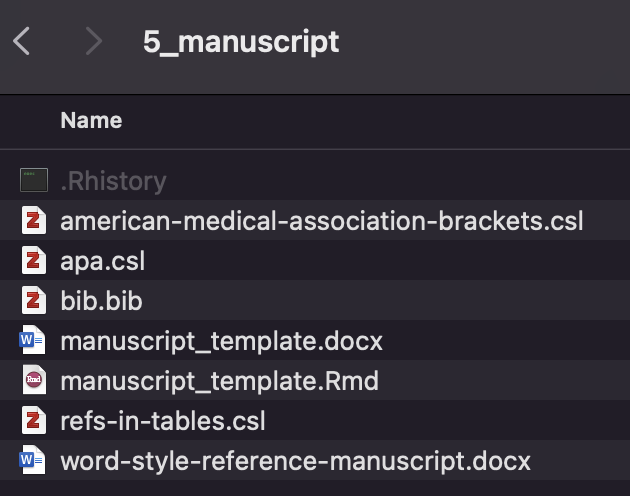
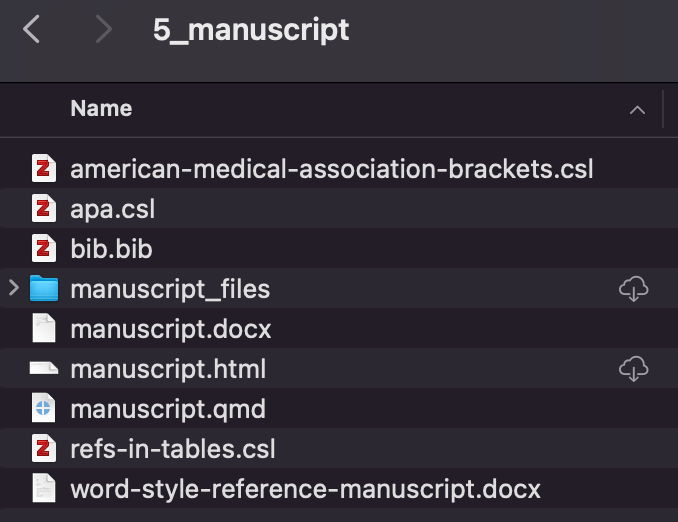
updated modeling workflow slides and syllabus

diff --git a/sessions/11-modeling_workflow/modeling_workflow.html b/sessions/11-modeling_workflow/modeling_workflow.html
@@ -404,6 +404,10 @@ Alton Russell
 
   <p class="date">2023-10-05</p>
 </section>
+<section id="non-programing-assignments" class="slide level2">
+<h2>Non-programing assignments</h2>
+<p>See <a href="https://htmlpreview.github.io/?https://github.com/altonrus/epib-676/blob/main/syllabus/info_assignments_nonprogramming.html">Info for non-programming assignments</a> in syllabus folder of Github.</p>
+</section>
 <section id="today" class="slide level2">
 <h2>Today</h2>
 <ul>
@@ -451,9 +455,12 @@ Alton Russell
 </section>
 <section id="paradigm-shift" class="slide level2">
 <h2>Paradigm shift</h2>
-<p>Manuscript is an advertisement. Product is what you publish with it.</p>
-<p><br></p>
-<p>Product is code, data, Shiny tool, etc.</p>
+<p>Manuscript is an advertisement. The product is the associated work</p>
+<ul>
+<li><p>Code</p></li>
+<li><p>Data</p></li>
+<li><p>Shiny app, etc.</p></li>
+</ul>
 <blockquote>
 <p>An article about computational result is advertising, not scholarship. The <strong>actual scholarship is the full software environment, code and data, that produced the result.</strong></p>
 </blockquote>
@@ -507,22 +514,22 @@ Alton Russell
 </section>
 <section id="cant-share-data-due-to-privacy" class="slide level2">
 <h2>Can’t share data due to privacy?</h2>
-<p>Code is very useful even without data</p>
+<p>Code is useful, even without data</p>
 <ul>
-<li><p>Helps communicate your methods</p></li>
-<li><p>Others can adapt + run on their own data</p></li>
+<li><p>Precisely communicates methods</p></li>
+<li><p>Others can adapt, borrow + run on their own data</p></li>
 </ul>
 <p>Increase reproducibility without sharing data with</p>
 <ul>
 <li><p>‘Data dictionary’ in supplement</p></li>
-<li><p>Synthetic data</p></li>
+<li><p>Synthetic data(?)</p></li>
 </ul>
 </section>
 <section id="environment" class="slide level2">
 <h2>Environment</h2>
 <ul>
 <li><p>R and packages updated all the time</p></li>
-<li><p>No guarantees of backwards compatibility</p></li>
+<li><p>No guarantee of backwards compatibility</p></li>
 <li><p>Potential solutions</p>
 <ul>
 <li><p><a href="https://rstudio.github.io/renv/">renv package</a> for <strong>r</strong>eproducible <strong>env</strong>ironments</p></li>
@@ -544,8 +551,10 @@ Alton Russell
 </section>
 <section id="each-script-should-run-error-free-in-new-session" class="slide level2">
 <h2>Each script should run error-free in new session</h2>
-<p>Use console when designing code, but ‘restart r and clear output’ before final check.</p>
-<p>Change global options to maximize reproducibility</p>
+<ul>
+<li><p>Use console when writing, but ‘restart r and clear output’ before final run</p></li>
+<li><p>Set global options to maximize reproducibility</p></li>
+</ul>
 
 <img data-src="figs/rstudio-global-options.jpeg" class="r-stretch"></section>
 <section id="literate-programming" class="slide level2">
@@ -596,7 +605,7 @@ Alton Russell
 </div>
 </section>
 <section id="data-folder-best-practices" class="slide level2">
-<h2>Data folder best practices</h2>
+<h2>1_data folder best practices</h2>
 <ul>
 <li><p>Also put data documentation (dictionary, meta-data) here</p>
 <ul>
@@ -610,8 +619,8 @@ Alton Russell
 <li><p>Line-level data in csv, json or <a href="https://arrow.apache.org/docs/index.html">feather or parquet</a></p></li>
 </ul>
 </section>
-<section id="intermediate-and-output-folders" class="slide level2">
-<h2>Intermediate and Output folders</h2>
+<section id="intermediate-and-4_output-folders" class="slide level2">
+<h2>3_intermediate and 4_output folders</h2>
 <ul>
 <li><p>Tables/objects generated in your scripts should go to intermediate or output folder (<strong>not data</strong>!)</p></li>
 <li><p>Use intermediate folder for non-final objects (that are later read into another script)</p>
@@ -641,7 +650,7 @@ Alton Russell
 </div>
 </section>
 <section id="scripts-folder-best-practices" class="slide level2">
-<h2>Scripts folder best practices</h2>
+<h2>2_scripts folder best practices</h2>
 <div class="columns">
 <div class="column" style="width:60%;">
 <ul>
@@ -662,24 +671,23 @@ Alton Russell
 <h2>Functionalize code</h2>
 <p>Often develops over time:</p>
 <ul>
-<li><p>At first, write code directly in scripts</p></li>
+<li><p>At first, write code directly in script (no function)</p></li>
 <li><p>Then, break key parts into functions</p></li>
 <li><p>As number of functions grow, move into <code>00-hepler-functions</code> script and <code>source()</code> into analysis scripts</p></li>
 </ul>
-<p>Many smaller functions calling each other &gt; 1 massive function</p>
+<p>Smaller functions calling each other easier to understand &amp; debug vs.&nbsp;1 massive function</p>
 </section>
-<section id="use-headings-in-code" class="slide level2">
-<h2>Use headings in code</h2>
+<section id="headings-in-.r-scripts" class="slide level2">
+<h2>Headings in .R scripts</h2>
 <ul>
 <li><p><code># Text -----</code> will create a section for your outline</p>
 <ul>
 <li>Again, verb-based sections good</li>
 </ul></li>
-<li><p>Neat hack: <code>#| Text ----</code> can create ‘subsections’</p></li>
-<li><p>Figures also show up in outline</p></li>
+<li><p>Neat hack: <code>#| - Text ----</code> can create ‘subsections’</p></li>
 </ul>
 
-<img data-src="rscript_examples.jpg" class="r-stretch"></section>
+<img data-src="headings_outline_example.png" class="r-stretch"></section>
 <section id="github-in-rstudio" class="slide level2">
 <h2><strong>Git</strong>hub in RStudio</h2>
 <div class="columns">
@@ -700,27 +708,41 @@ Alton Russell
 <div class="column" style="width:30%;">
 <p><img data-src="figs/gitignore-example.png"></p>
 </div><div class="column" style="width:70%;">
-<p>Any folder or file you don’t want on github</p>
+<p>List all folders/files you don’t want on github</p>
 <ul>
-<li><p>“local” folder (data use agreements, conference presentations, etc.)</p></li>
-<li><p>“private” folders for objects that cannot be made public</p></li>
+<li><p>“local” folder (data use agreements, conference presentations, meeting minutes, etc.)</p></li>
+<li><p>“private” sub-folders for objects that cannot be made public</p></li>
 </ul>
-<p>I keep Github repos private at first, but they become public when I publish.</p>
+<p>Github repos private (with collaborators) while developing project, but they become public when I publish.</p>
 </div>
 </div>
 </section>
 <section id="more-on-private-folders" class="slide level2">
 <h2>More on private folders</h2>
 <ul>
-<li><p>Use when data use agreement / ethics prevents sharing data</p></li>
-<li><p>Warning: objects other than data tables can include data (e.g., saving a ‘random forest object’ from ranger)</p></li>
+<li><p>Use when data use agreement and/or ethics prevents sharing data</p></li>
 <li><p>Should never push private data to github, even if private</p></li>
-<li><p><strong>If sensitive data were ever in repo, hard to remove! (just nuke and re-create before making public)</strong></p></li>
+</ul>
+<div class="callout callout-warning callout-titled callout-style-default">
+<div class="callout-body">
+<div class="callout-title">
+<div class="callout-icon-container">
+<i class="callout-icon"></i>
+</div>
+<p><strong>Warning</strong></p>
+</div>
+<div class="callout-content">
+<p>Objects other than data tables can include data (e.g., saving an ML model ‘object’ often has the data embedded!)</p>
+</div>
+</div>
+</div>
+<ul>
+<li><strong>If sensitive data were ever in repo, hard to remove! (just nuke and re-create before making public)</strong></li>
 </ul>
 </section>
 <section id="merge-conflict" class="slide level2">
 <h2>Merge conflict</h2>
-<p>Caused when:</p>
+<p>Can happen if:</p>
 <ul>
 <li><p>Two users edit same line of file</p></li>
 <li><p>Someone edits and another person deletes</p></li>
@@ -742,7 +764,7 @@ ask your question in IRC.
 <p><strong>Note</strong></p>
 </div>
 <div class="callout-content">
-<p>This is why if you edit the assignments you may be unable to pull the class repo. Solution: Copy anything you want to edit into another location so you can always pull.</p>
+<p>This is why if you edit the assignments you may be unable to pull the class repo. Can copy anything you want to edit into another location so you can always pull.</p>
 </div>
 </div>
 </div>
@@ -781,13 +803,13 @@ ask your question in IRC.
 <p><strong>But:</strong></p>
 <ul>
 <li><p>If you change parameter and rerun scrips, all results will update</p></li>
-<li><p>Reduces risk of transcription error (still risk of coding error)</p></li>
+<li><p>Reduces risk of transcription error (but may introduce new risk of coding error)</p></li>
 </ul>
 </section>
 <section id="my-manuscript-template" class="slide level2">
 <h2>My Manuscript template</h2>
 <ul>
-<li><p>.Rmd that knits to Microsoft Word</p>
+<li><p>.Qmd that knits to Microsoft Word</p>
 <ul>
 <li>Collaborators can track changes</li>
 <li>Some medical journals still prefer Word</li>
@@ -799,19 +821,15 @@ ask your question in IRC.
 <li><p>Use <a href="https://davidgohel.github.io/flextable/reference/index.html">flextable package</a> to make pretty tables</p></li>
 </ul>
 </section>
-<section id="manuscript-template-.rmd" class="slide level2">
-<h2>Manuscript template .Rmd</h2>
-<div class="columns">
-<div class="column" style="width:60%;">
-<p><img data-src="figs/manuscript-template-head.png"></p>
-</div><div class="column" style="width:40%;">
+<section id="manuscript-template-.qmd" class="slide level2">
+<h2>Manuscript template .Qmd</h2>
 <ul>
+<li><p><a href="https://github.com/altonrus/generic-project/blob/main/5_manuscript/manuscript.qmd" class="uri">https://github.com/altonrus/generic-project/blob/main/5_manuscript/manuscript.qmd</a></p></li>
 <li><p>YAML header to specify title, output format, bib file, citation style</p></li>
-<li><p><code>&lt;br&gt;</code> for line breaks; <code>#####</code> for page breaks</p></li>
-<li><p>Can use latex for equations</p></li>
+<li><p><code>&lt;br&gt;</code> for line breaks; <code>{{&lt; page*break &gt;}}</code> (without *) for page breaks</p></li>
+<li><p>Allows latex equations</p></li>
+<li><p>Weird hack for supplemental table/fig crossreferencing (see note .Qmd file)</p></li>
 </ul>
-</div>
-</div>
 </section>
 <section id="manuscript-folder-contents" class="slide level2">
 <h2>Manuscript folder contents</h2>
@@ -836,7 +854,7 @@ ask your question in IRC.
 <ul>
 <li><p>Normal word document</p></li>
 <li><p>Collaborators track changes and return</p></li>
-<li><p>I manually update .Rmd (annoying)</p></li>
+<li><p>Must manually update .Qmd (annoying)</p></li>
 </ul>
 </div>
 </div>
@@ -855,15 +873,13 @@ ask your question in IRC.
 </ul>
 </div>
 </div>
-</section>
-<section id="new-better-bibtex-add-on-zotero" class="slide level2">
-<h2>New! Better BibTex add-on + Zotero</h2>
+<p>Better BibTex add-on for Zotero</p>
 <div class="columns">
 <div class="column" style="width:50%;">
-<p>I just learned of <a href="https://retorque.re/zotero-better-bibtex/">Better BibTex for Zotero</a> from <a href="https://www.andrewheiss.com/blog/2023/01/08/bibdesk-to-zotero-pandoc/#example-workflow-with-quarto-r-markdown-pandoc">this blog</a></p>
+<p><a href="https://retorque.re/zotero-better-bibtex/">Better BibTex for Zotero</a> (see <a href="https://www.andrewheiss.com/blog/2023/01/08/bibdesk-to-zotero-pandoc/#example-workflow-with-quarto-r-markdown-pandoc">this blog</a>) is very helpful</p>
 <ul>
-<li><p>Auto-assign citation keys and prevents duplicates</p></li>
-<li><p>If you export to “Better bibtex” format, with “Keep updated” checked, .bib file auto-updates whenever the Zenodo collection changes</p></li>
+<li><p>Auto-assign citation keys and prevents duplicates withen Zenodo</p></li>
+<li><p>If you export to “Better bibtex” format, with “Keep updated” checked, .bib file auto-adds anything added to the Zotero repo</p></li>
 </ul>
 </div><div class="column" style="width:50%;">
 <p><img data-src="BetterBibTeX.png"></p>

diff --git a/syllabus/epid-676_syllabus.html b/syllabus/epid-676_syllabus.html
@@ -66,7 +66,7 @@ ul.task-list li input[type="checkbox"] {
   <li><a href="#language-of-submission" id="toc-language-of-submission" class="nav-link" data-scroll-target="#language-of-submission">Language of submission</a></li>
   <li><a href="#course-schedule" id="toc-course-schedule" class="nav-link" data-scroll-target="#course-schedule">Course schedule</a></li>
   </ul>
-<div class="quarto-alternate-formats"><h2>Other Formats</h2><ul><li><a href="../epid-676_syllabus.pdf"><i class="bi bi-file-pdf"></i>PDF</a></li></ul></div></nav>
+<div class="quarto-alternate-formats"><h2>Other Formats</h2><ul><li><a href="epid-676_syllabus.pdf"><i class="bi bi-file-pdf"></i>PDF</a></li></ul></div></nav>
 </div>
 <main class="content" id="quarto-document-content">
 
@@ -172,7 +172,7 @@ quarto::quarto_render("syllabus/epid-676_syllabus.qmd")
 </section>
 <section id="course-project-40" class="level3">
 <h3 class="anchored" data-anchor-id="course-project-40">Course project (40%)</h3>
-<p>The default course project entails developing a decision-analytic model an use it to inform a decision from health policy or clinical practice. Students are encouraged to analyze a decision problem related to their own research and/or engage with domain experts outside the class when applicable. Other project topics, such as developing or assessing a novel method or using modeling methods for an application that is not a decision analysis, may be approved by the instructor on a case-by-case basic. Students may work alone or in pairs. Students are strongly encouraged to come to office hours to discuss their project with the instructor.</p>
+<p>The default course project entails developing a decision-analytic model an use it to inform a decision from health policy or clinical practice. Students are encouraged to analyze a decision problem related to their own research and/or engage with domain experts outside the class when applicable. Other project topics, such as developing or assessing a novel method or using modeling methods for an application that is not a decision analysis, may be approved by the instructor on a case-by-case basic. Students are strongly encouraged to come to office hours to discuss their project with the instructor.</p>
 <ol type="1">
 <li>Proposal (2%)</li>
 <li>Class presentation (8%)</li>
@@ -367,11 +367,11 @@ quarto::quarto_render("syllabus/epid-676_syllabus.qmd")
 </tr>
 <tr class="odd">
 <td><strong>19 Oct Th</strong></td>
-<td><p><strong>14. Guest lecture:</strong> “Topic TBD” by Kyueun Lee, PhD (University of Washington)</p>
+<td><p><strong>14. Guest lecture:</strong> "Estimating the impact of low influenza activity in 2020 on population immunity and future influenza seasons in the United States” by Kyueun Lee, PhD (University of Washington)</p>
 <ul>
 <li>Office hours on Zoom only</li>
 </ul>
-<p>Manuscript and code TBD.</p></td>
+<p><a href="https://doi.org/10.1093/ofid/ofab607">Manuscript</a>, <a href="https://github.com/noyarim/Influenza-VOI">Code</a></p></td>
 </tr>
 <tr class="even">
 <td><strong>24 Oct Tu</strong></td>
@@ -416,7 +416,6 @@ quarto::quarto_render("syllabus/epid-676_syllabus.qmd")
 <ul>
 <li>Evaluation frameworks</li>
 <li>Estimating heterogeneity</li>
-<li><strong>Report on published study assigned</strong></li>
 </ul>
 <ol type="1">
 <li><p><a href="https://doi.org/10.1136/bmjgh-2021-008140"><em>Avanceña and Prosser (2021). Innovations in cost-effectiveness analysis that advance equity can expand its use in health policy</em></a></p></li>
